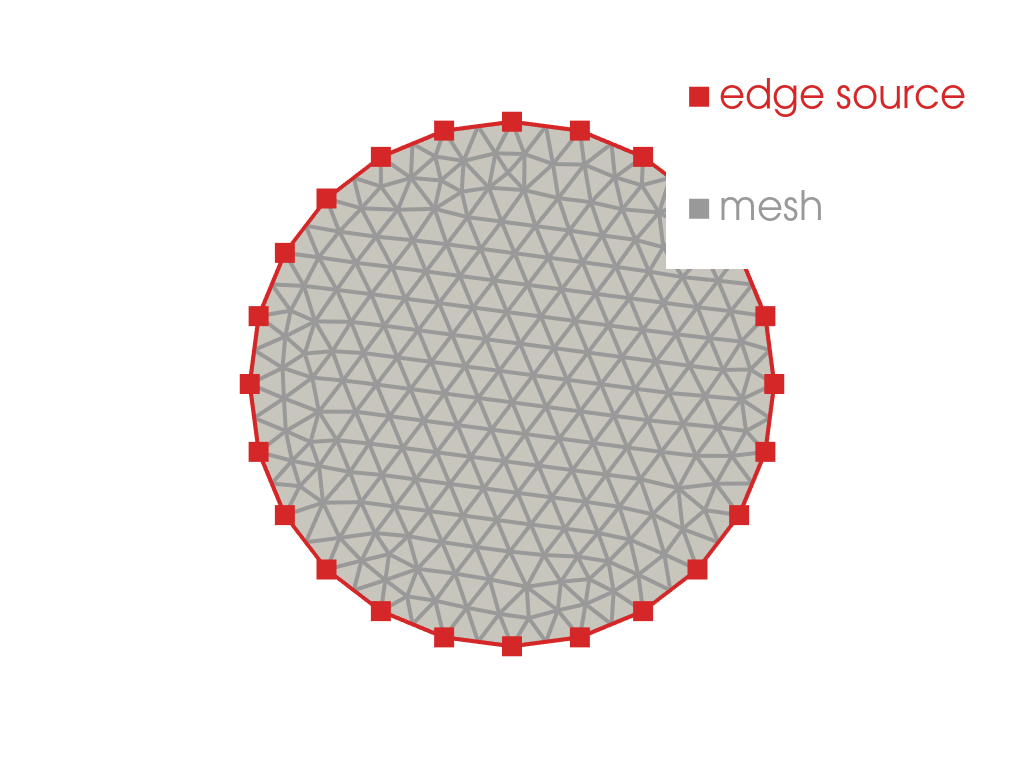
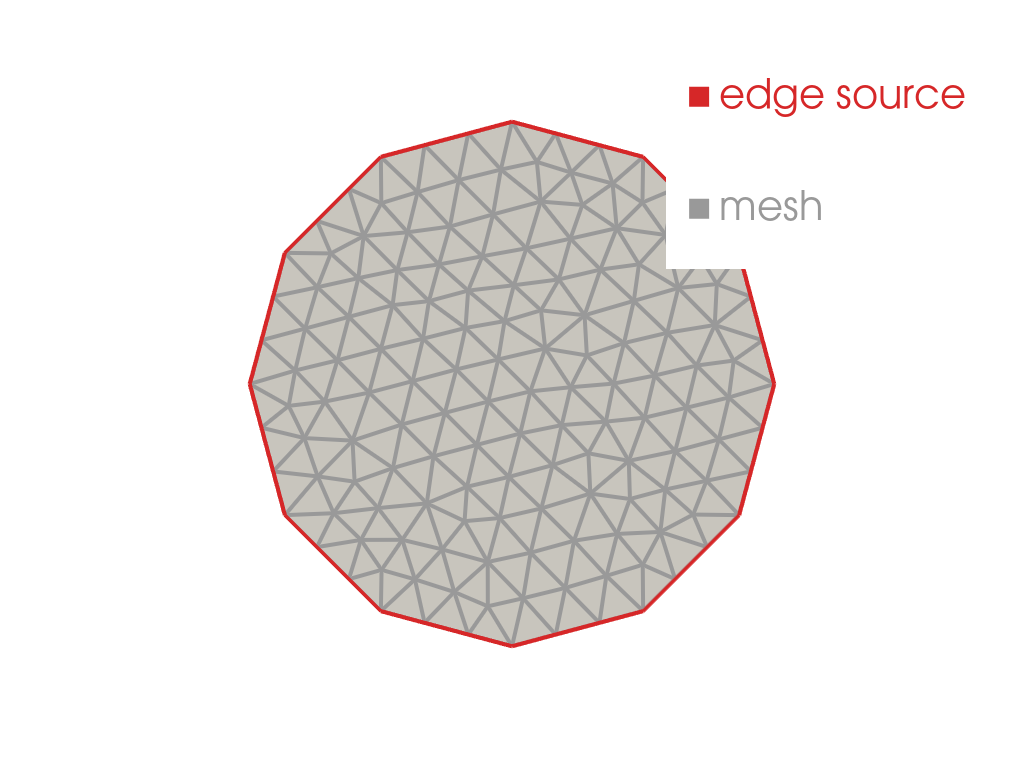
Update README.md

Changed region(s): [[0.2188, 0.125, 0.7812, 0.875]]

diff --git a/src/skgmsh/__init__.py b/src/skgmsh/__init__.py
@@ -61,13 +61,12 @@ def frontal_delaunay_2d(
     >>> import pyvista as pv
     >>> import skgmsh as sg
 
-    >>> edge_source = pv.Polygon(n_sides=24, radius=8, fill=False)
+    >>> edge_source = pv.Polygon(n_sides=12, radius=8, fill=False)
     >>> mesh = sg.frontal_delaunay_2d(edge_source, target_sizes=2.0)
 
     >>> plotter = pv.Plotter(off_screen=True)
     >>> _ = plotter.add_mesh(mesh, show_edges=True, line_width=4, color="white", lighting=True, edge_color=[153, 153, 153])
     >>> _ = plotter.add_mesh(edge_source, show_edges=True, line_width=4, color=[214, 39, 40])
-    >>> _ = plotter.add_points(edge_source.points, style="points", point_size=20, color=[214, 39, 40])
     >>> _ = plotter.add_legend([[" edge source", [214, 39, 40]], [" mesh ", [153, 153, 153]]], bcolor="white", face="r", size=(0.3, 0.3))
     >>> plotter.show(cpos="xy", screenshot="docs/_static/frontal_delaunay_2d_01.png")
 

diff --git a/README.md b/README.md
@@ -58,7 +58,7 @@ import skgmsh as sg
 We can define the surface using PyVista.
 
 ```python
-edge_source = pv.Polygon(n_sides=24, radius=8, fill=False)
+edge_source = pv.Polygon(n_sides=12, radius=8, fill=False)
 ```
 
 We can then generate a 2D mesh.
@@ -80,9 +80,6 @@ _ = plotter.add_mesh(
     edge_color=[153, 153, 153],
 )
 _ = plotter.add_mesh(edge_source, show_edges=True, line_width=4, color=[214, 39, 40])
-_ = plotter.add_points(
-    edge_source.points, style="points", point_size=20, color=[214, 39, 40]
-)
 _ = plotter.add_legend(
     [[" edge source", [214, 39, 40]], [" mesh ", [153, 153, 153]]],
     bcolor="white",
